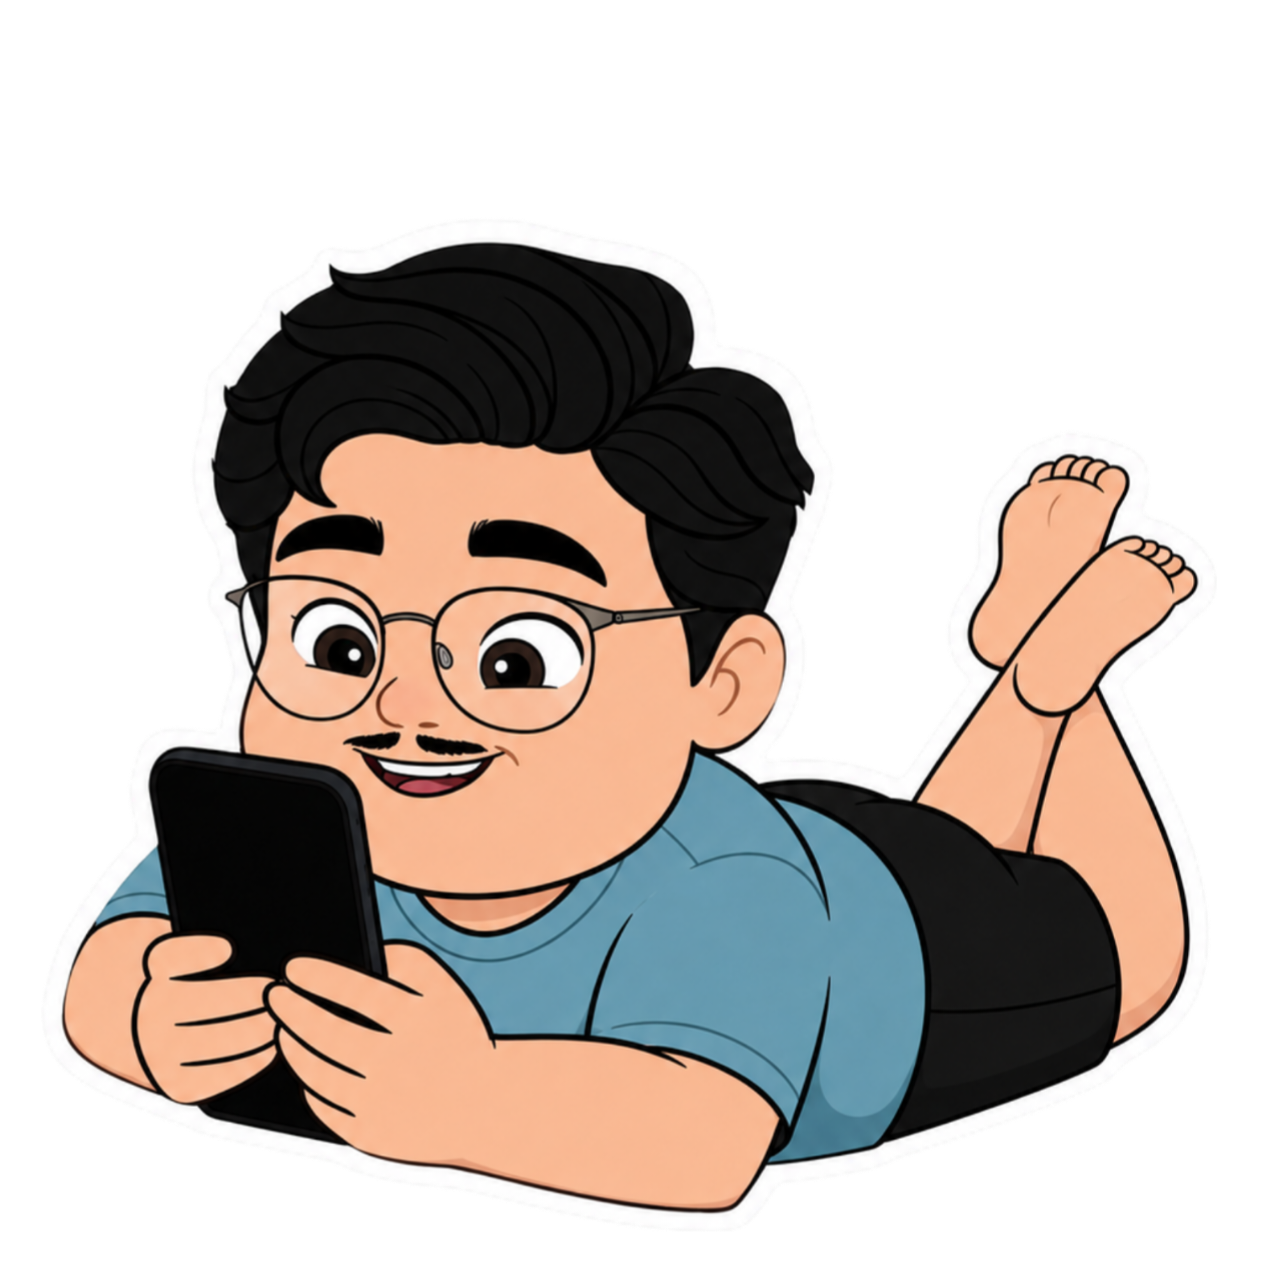
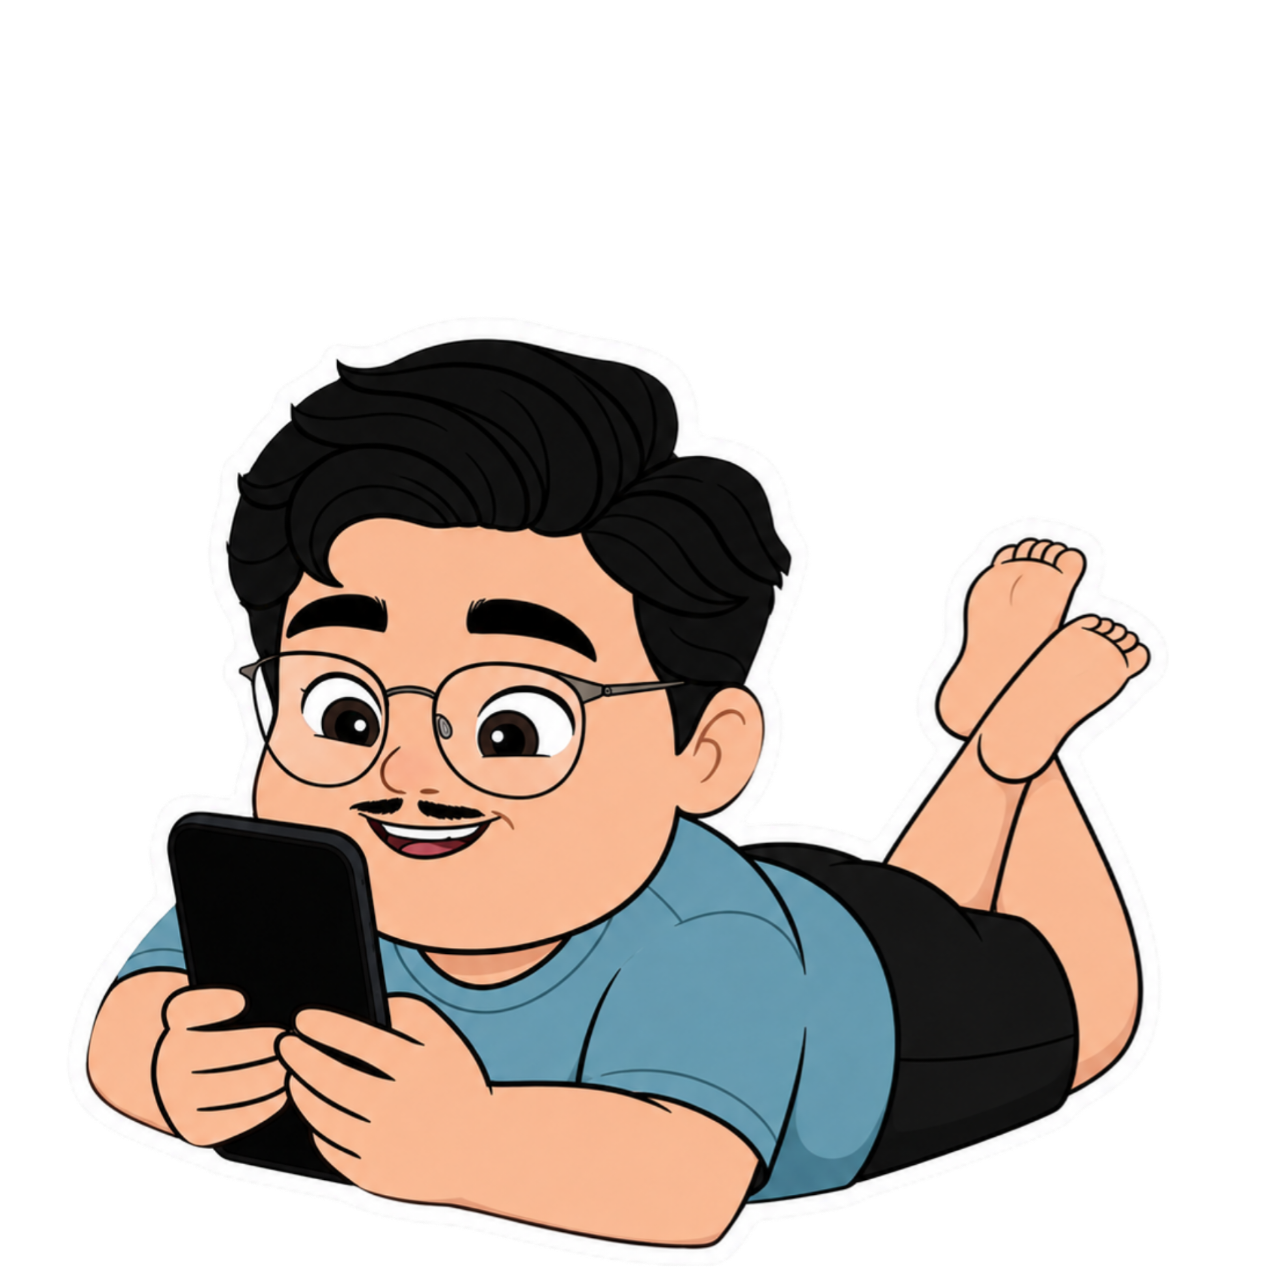
Add files via upload

Changed region(s): [[0.0312, 0.1875, 0.9375, 1.0]]

diff --git a/index.html b/index.html
@@ -22,8 +22,8 @@
         body { background-color: #0b0f19; color: #f3f4f6; display: flex; flex-direction: column; justify-content: center; align-items: center; min-height: 100vh; padding: 20px; overflow-x: hidden; }
         
         @keyframes fadeInScale { to { opacity: 1; transform: scale(1); } }
-        .top-left-nav { position: absolute; top: 20px; left: 20px; }
-        .top-right-nav { position: absolute; top: 20px; right: 20px; }
+        .top-left-nav { position: absolute; top: 20px; left: 20px; z-index: 20; }
+        .top-right-nav { position: absolute; top: 20px; right: 20px; z-index: 20; }
         
         /* Logo Custom */
         .bottom-left-logo { 
@@ -39,18 +39,37 @@
         .pill-link:hover { transform: scale(1.05); background: rgba(255, 255, 255, 0.1); }
 
         .chat-container { display: flex; justify-content: center; align-items: center; gap: 40px; margin-bottom: 40px; position: relative; width: 100%; max-width: 400px; }
-        .character-wrapper { position: relative; display: flex; flex-direction: column; align-items: center; }
         
-        .person-img { width: 120px; height: auto; transition: transform 0.4s cubic-bezier(0.175, 0.885, 0.32, 1.275); }
+        /* Wrapper utama karakter tetap tenang agar teks balon chat tidak ikut goyang */
+        .character-wrapper { position: relative; display: flex; flex-direction: column; align-items: center; width: 120px; height: 150px; }
         
+        /* Kontainer Gambar tempat animasi diaplikasikan */
+        .img-container { position: relative; width: 100%; height: 100%; transition: transform 0.5s cubic-bezier(0.175, 0.885, 0.32, 1.275); }
+        
+        /* Gambar menumpuk di dalam kontainer */
+        .person-img { position: absolute; top: 0; left: 0; width: 100%; height: auto; transition: opacity 0.6s ease-in-out; }
+        
+        /* Animasi Mengambang Statis standar */
         .float-anim { animation: float 4s ease-in-out infinite; }
-        @keyframes float { 0%, 100% { transform: translateY(0); } 50% { transform: translateY(-10px); } }
+        @keyframes float { 0%, 100% { transform: translateY(0); } 50% { transform: translateY(-8px); } }
         
-        .active-move { transform: scale(1.2) translateY(-20px); animation: shake 0.3s ease-in-out infinite; }
-        @keyframes shake { 0%, 100% { transform: scale(1.2) translateY(-20px) rotate(0deg); } 25% { transform: scale(1.2) translateY(-20px) rotate(5deg); } 75% { transform: scale(1.2) translateY(-20px) rotate(-5deg); } }
+        /* Animasi Berbicara / Aktif Baru: Mengayun Lembut & Sedikit Membesar (Soft & Random feel) */
+        .active-move { transform: scale(1.18) translateY(-15px); animation: softSway 3s ease-in-out infinite; }
+        @keyframes softSway {
+            0%, 100% { transform: scale(1.18) translateY(-15px) rotate(0deg); }
+            25% { transform: scale(1.18) translateY(-12px) rotate(2deg); }
+            50% { transform: scale(1.18) translateY(-17px) rotate(-1.5deg); }
+            75% { transform: scale(1.18) translateY(-14px) rotate(1deg); }
+        }
 
-        .deco { position: absolute; top: -50px; background: rgba(255,255,255,0.15); backdrop-filter: blur(5px); border: 1px solid rgba(255,255,255,0.2); border-radius: 50px; padding: 6px 15px; display: flex; align-items: center; justify-content: center; font-size: 13px; font-weight: 600; white-space: nowrap; animation: float 3s ease-in-out infinite; box-shadow: 0 4px 10px rgba(0,0,0,0.2); transition: opacity 0.5s ease; opacity: 0; min-height: 32px; }
+        /* Style dasar balon chat */
+        .deco { position: absolute; top: -55px; border-radius: 50px; padding: 6px 15px; display: flex; align-items: center; justify-content: center; font-size: 13px; font-weight: 600; white-space: nowrap; animation: floatBubble 3.5s ease-in-out infinite; box-shadow: 0 4px 10px rgba(0,0,0,0.2); transition: opacity 0.5s ease; opacity: 0; min-height: 32px; z-index: 10; }
+        @keyframes floatBubble { 0%, 100% { transform: translateY(0); } 50% { transform: translateY(-5px); } }
         
+        /* Warna Balon Chat Spesifik */
+        #bubbleLeft { background: rgba(2, 184, 117, 0.2); color: #86efac; border: 1px solid rgba(2, 184, 117, 0.4); backdrop-filter: blur(5px); }
+        #bubbleRight { background: rgba(14, 165, 233, 0.2); color: #bae6fd; border: 1px solid rgba(14, 165, 233, 0.4); backdrop-filter: blur(5px); }
+
         .card { background: rgba(255, 255, 255, 0.03); border: 1px solid rgba(255, 255, 255, 0.08); backdrop-filter: blur(16px); padding: 40px 30px; border-radius: 24px; width: 90%; max-width: 480px; text-align: center; box-shadow: 0 20px 40px rgba(0, 0, 0, 0.3); }
 
         .fade-text { opacity: 0; animation: fadeInUp 1s ease forwards; animation-delay: 0.5s; }
@@ -83,12 +102,18 @@
     <div class="chat-container">
         <div class="character-wrapper">
             <div class="deco" id="bubbleLeft">...</div>
-            <img src="pemanggil_kiri.png" id="imgLeft" class="person-img float-anim" alt="Orang 1">
+            <div class="img-container float-anim" id="containerLeft">
+                <img src="pemanggil_kiri_3.png" id="imgLeft1" class="person-img" style="opacity: 1;" alt="Orang 1A">
+                <img src="pemanggil_kiri.png" id="imgLeft2" class="person-img" style="opacity: 0;" alt="Orang 1B">
+            </div>
         </div>
         
         <div class="character-wrapper">
             <div class="deco" id="bubbleRight">...</div>
-            <img src="pemanggil_kanan.png" id="imgRight" class="person-img float-anim" alt="Orang 2">
+            <div class="img-container float-anim" id="containerRight">
+                <img src="pemanggil_kanan.png" id="imgRight1" class="person-img" style="opacity: 1;" alt="Orang 2A">
+                <img src="pemanggil_kanan_4.png" id="imgRight2" class="person-img" style="opacity: 0;" alt="Orang 2B">
+            </div>
         </div>
     </div>
 
@@ -103,33 +128,47 @@
     <script>
         const bLeft = document.getElementById('bubbleLeft');
         const bRight = document.getElementById('bubbleRight');
-        const imgLeft = document.getElementById('imgLeft');
-        const imgRight = document.getElementById('imgRight');
+        const cLeft = document.getElementById('containerLeft');
+        const cRight = document.getElementById('containerRight');
         
         let step = 0;
         let bubbleTimeout;
+        let nextDialogTimeout;
 
-        // Daftar foto Anda
         const daftarFoto = {
-            kiri: ["pemanggil_kiri.png", "pemanggil_kiri_2.png"],
-            kanan: ["pemanggil_kanan.png", "pemanggil_kanan_2.png"]
+            kiri: ["pemanggil_kiri.png", "pemanggil_kiri_2.png", "pemanggil_kiri_3.png"],
+            kanan: ["pemanggil_kanan.png", "pemanggil_kanan_2.png", "pemanggil_kanan_3.png", "pemanggil_kanan_4.png"]
         };
 
         function animateCharacter(activeSide) {
             if(activeSide === 'left') {
-                imgLeft.classList.add('active-move');
-                imgLeft.classList.remove('float-anim');
-                imgRight.classList.remove('active-move');
-                imgRight.classList.add('float-anim');
+                cLeft.classList.add('active-move');
+                cLeft.classList.remove('float-anim');
+                cRight.classList.remove('active-move');
+                cRight.classList.add('float-anim');
             } else {
-                imgRight.classList.add('active-move');
-                imgRight.classList.remove('float-anim');
-                imgLeft.classList.remove('active-move');
-                imgLeft.classList.add('float-anim');
+                cRight.classList.add('active-move');
+                cRight.classList.remove('float-anim');
+                cLeft.classList.remove('active-move');
+                cLeft.classList.add('float-anim');
             }
         }
 
-        // Fungsi khusus untuk efek ketikan di bubble chat
+        function changeImageCrossFade(side, newSrc) {
+            const img1 = document.getElementById(`img${side === 'left' ? 'Left' : 'Right'}1`);
+            const img2 = document.getElementById(`img${side === 'left' ? 'Left' : 'Right'}2`);
+            
+            if (window.getComputedStyle(img1).opacity === "1") {
+                img2.src = newSrc;
+                img2.style.opacity = 1;
+                img1.style.opacity = 0;
+            } else {
+                img1.src = newSrc;
+                img1.style.opacity = 1;
+                img2.style.opacity = 0;
+            }
+        }
+
         function typeWriterBubble(element, text, speed, callback) {
             let index = 0;
             element.innerText = "";
@@ -148,79 +187,114 @@
         }
 
         function updateConversation() {
+            clearTimeout(nextDialogTimeout);
+
             switch(step) {
                 case 0:
-                    imgLeft.src = daftarFoto.kiri[0];
+                    // Kecepatan ketikan diubah jadi 50ms agar sedikit lebih santai
+                    changeImageCrossFade('left', daftarFoto.kiri[2]);
                     bLeft.style.opacity = 1; bRight.style.opacity = 0;
                     animateCharacter('left');
-                    // Mengetik "Halo kamu ..." dengan total durasi sekitar 1 detik (13 huruf x 80ms)
-                    typeWriterBubble(bLeft, "Halo kamu ...", 80);
+                    
+                    typeWriterBubble(bLeft, "Hai saya iPix Salam kenal", 50, function() {
+                        nextDialogTimeout = setTimeout(function() {
+                            changeImageCrossFade('left', daftarFoto.kiri[2]); // Tetap foto awal perkenalan
+                            step = 1;
+                            updateConversation();
+                        }, 1600); // Dijeda 1.6 detik (sedikit lebih lambat)
+                    });
                     break;
+                    
                 case 1:
-                    imgRight.src = daftarFoto.kanan[0];
-                    bRight.innerText = "Hi juga, Apa kabar ?";
+                    changeImageCrossFade('right', daftarFoto.kanan[3]);
                     bRight.style.opacity = 1; bLeft.style.opacity = 0;
                     animateCharacter('right');
+
+                    typeWriterBubble(bRight, "Hai juga, saya Chubby Salam kenal", 50, function() {
+                        nextDialogTimeout = setTimeout(function() {
+                            changeImageCrossFade('right', daftarFoto.kanan[0]);
+                            step = 2;
+                            updateConversation();
+                        }, 1600);
+                    });
                     break;
+
                 case 2:
-                    imgLeft.src = daftarFoto.kiri[0];
+                    changeImageCrossFade('right', daftarFoto.kanan[0]);
+                    bRight.innerText = "Kamu apa kabar ?";
+                    bRight.style.opacity = 1; bLeft.style.opacity = 0;
+                    animateCharacter('right');
+                    nextDialogTimeout = setTimeout(() => { step = 3; updateConversation(); }, 1400);
+                    break;
+                case 3:
+                    // Kiri menjawab tetap pakai foto salam kenal (no 3)
+                    changeImageCrossFade('left', daftarFoto.kiri[2]);
                     bLeft.innerText = "Baik";
                     bLeft.style.opacity = 1; bRight.style.opacity = 0;
                     animateCharacter('left');
-                    break;
-                case 3:
-                    imgLeft.src = daftarFoto.kiri[0];
-                    bLeft.innerText = "Kalau kamu, Gimana ?";
-                    bLeft.style.opacity = 1; bRight.style.opacity = 0;
-                    animateCharacter('left');
+                    nextDialogTimeout = setTimeout(() => { step = 4; updateConversation(); }, 1400);
                     break;
                 case 4:
-                    imgRight.src = daftarFoto.kanan[0];
+                    // Transisi ke wujud biasa santai setelah menjawab pertanyaan awal
+                    changeImageCrossFade('left', daftarFoto.kiri[0]);
+                    bLeft.innerText = "Apa kabar kamu ?";
+                    bLeft.style.opacity = 1; bRight.style.opacity = 0;
+                    animateCharacter('left');
+                    nextDialogTimeout = setTimeout(() => { step = 5; updateConversation(); }, 1400);
+                    break;
+                case 5:
+                    changeImageCrossFade('right', daftarFoto.kanan[0]);
                     bRight.innerText = "Baik juga";
                     bRight.style.opacity = 1; bLeft.style.opacity = 0;
                     animateCharacter('right');
-                    break;
-                case 5:
-                    imgRight.src = daftarFoto.kanan[0];
-                    bRight.innerText = "Kamu lagi sibuk apa?";
-                    bRight.style.opacity = 1; bLeft.style.opacity = 0;
-                    animateCharacter('right');
+                    nextDialogTimeout = setTimeout(() => { step = 6; updateConversation(); }, 1400);
                     break;
                 case 6:
-                    imgLeft.src = daftarFoto.kiri[0];
-                    bLeft.innerText = "Lagi sibuk mikirin kamu";
-                    bLeft.style.opacity = 1; bRight.style.opacity = 0;
-                    animateCharacter('left');
+                    changeImageCrossFade('right', daftarFoto.kanan[0]);
+                    bRight.innerText = "Tinggal dimana?";
+                    bRight.style.opacity = 1; bLeft.style.opacity = 0;
+                    animateCharacter('right');
+                    nextDialogTimeout = setTimeout(() => { step = 7; updateConversation(); }, 1400);
                     break;
                 case 7:
-                    imgRight.src = daftarFoto.kanan[0];
+                    changeImageCrossFade('left', daftarFoto.kiri[0]);
+                    bLeft.innerText = "Dihatimuuu";
+                    bLeft.style.opacity = 1; bRight.style.opacity = 0;
+                    animateCharacter('left');
+                    nextDialogTimeout = setTimeout(() => { step = 8; updateConversation(); }, 1600);
+                    break;
+                case 8:
+                    changeImageCrossFade('right', daftarFoto.kanan[2]);
                     bRight.innerText = "Hoooeeekkk";
                     bRight.style.opacity = 1; bLeft.style.opacity = 0;
                     animateCharacter('right');
-                    break;
-                case 8:
-                    imgRight.src = daftarFoto.kanan[0];
-                    bRight.innerText = "Hihihi";
-                    bRight.style.opacity = 1; bLeft.style.opacity = 0;
-                    animateCharacter('right');
+                    nextDialogTimeout = setTimeout(() => { step = 9; updateConversation(); }, 1400);
                     break;
                 case 9:
-                    imgLeft.src = daftarFoto.kiri[1];
+                    changeImageCrossFade('right', daftarFoto.kanan[1]);
+                    bRight.innerText = "Gombal";
+                    bRight.style.opacity = 1; bLeft.style.opacity = 0;
+                    animateCharacter('right');
+                    nextDialogTimeout = setTimeout(() => { step = 10; updateConversation(); }, 1400);
+                    break;
+                case 10:
+                    // Kiri tertawa menggunakan pemanggil_kiri_2.png
+                    changeImageCrossFade('left', daftarFoto.kiri[1]);
                     bLeft.innerText = "Hahaha";
                     bLeft.style.opacity = 1; bRight.style.opacity = 0;
                     animateCharacter('left');
+                    nextDialogTimeout = setTimeout(() => { step = 11; updateConversation(); }, 1600);
                     break;
-                case 10:
-                    imgRight.src = daftarFoto.kanan[1];
+                case 11:
+                    changeImageCrossFade('right', daftarFoto.kanan[0]);
                     bRight.innerText = "Hmm...";
                     bRight.style.opacity = 1; bLeft.style.opacity = 0;
                     animateCharacter('right');
+                    nextDialogTimeout = setTimeout(() => { step = 0; updateConversation(); }, 1800);
                     break;
             }
-            step = (step + 1) % 11;
         }
 
-        setInterval(updateConversation, 2000);
         setTimeout(updateConversation, 500);
 
         const textElement = document.getElementById("typing-text");
@@ -235,7 +309,7 @@
                 textElement.innerHTML = fullText;
             }
         }
-        setTimeout(typeWriter, 1500); 
+        setTimeout(typeWriter, 1000); 
     </script>
 </body>
 </html>